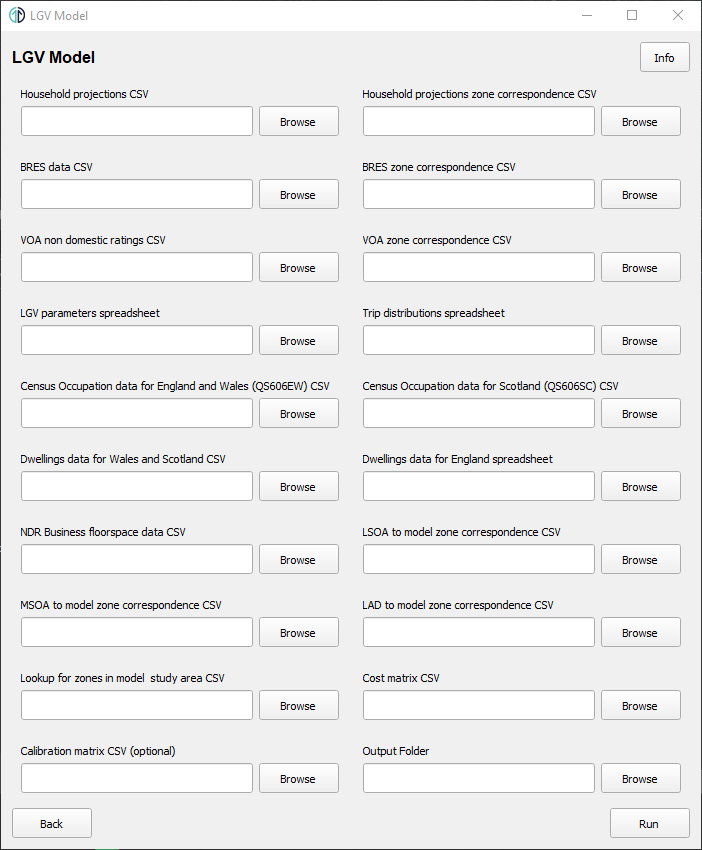
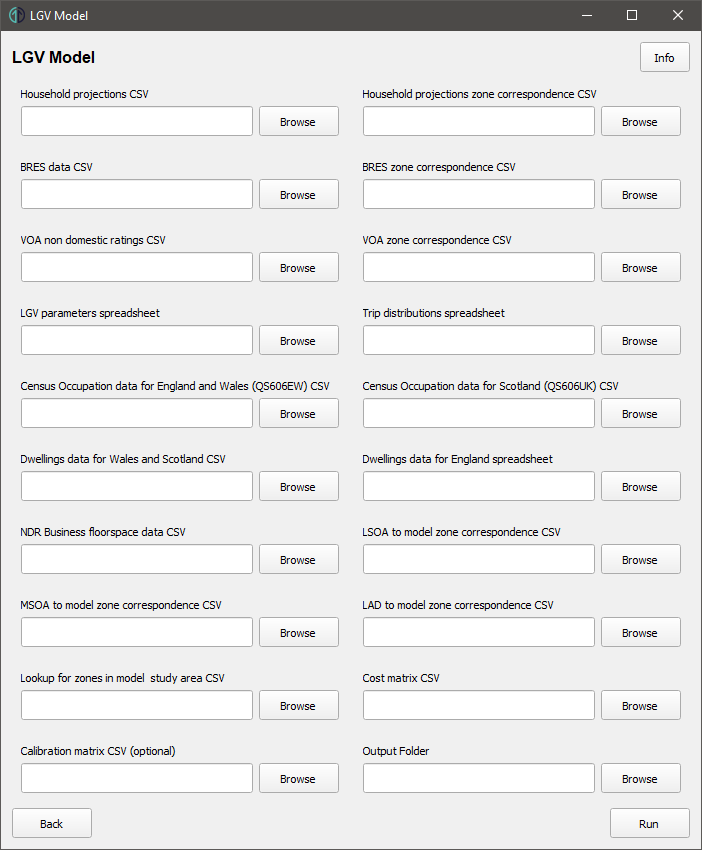
Added LGV model command to readme
Added description of how to run the LGV model with config file to readme.
Fixed label in LGV model UI for occupation data for Scotland.

diff --git a/local_freight_tool/LFT/lgv_model/lgv_model_ui.py b/local_freight_tool/LFT/lgv_model/lgv_model_ui.py
@@ -84,7 +84,7 @@ class LGVModelUI(QtWidgets.QWidget):
                 filetype="CSV",
             ),
             "qs606sc_path": ui.FileInput(
-                "Census Occupation data for Scotland (QS606SC) CSV", filetype="CSV"
+                "Census Occupation data for Scotland (QS606UK) CSV", filetype="CSV"
             ),
             "sc_w_dwellings_path": ui.FileInput(
                 "Dwellings data for Wales and Scotland CSV", filetype="CSV"

diff --git a/local_freight_tool/README.md b/local_freight_tool/README.md
@@ -468,7 +468,14 @@ The LGV model has a number of input files which can be provided in the GUI, or v
 file (example below). This section details all of the input files which are needed in order to run
 the LGV model.
 
-Example of the configuration file:
+To run the LGV model with a configuration file it needs to be ran from command line. The command
+for running it is **`python -m LFT.lgv_model -c "path/to/config.ini"`**, this command should be ran
+from the Anaconda prompt after activating the environment (see
+[Running Local Freight Tool](#running-local-freight-tool) for more information). An example of the
+configuration file is shown below.
+
+***Note:** help text for running the tool through the command line can be seen with `python -m
+LFT.lgv_model -h`.*
 
 ```
 [LGV File Paths]
